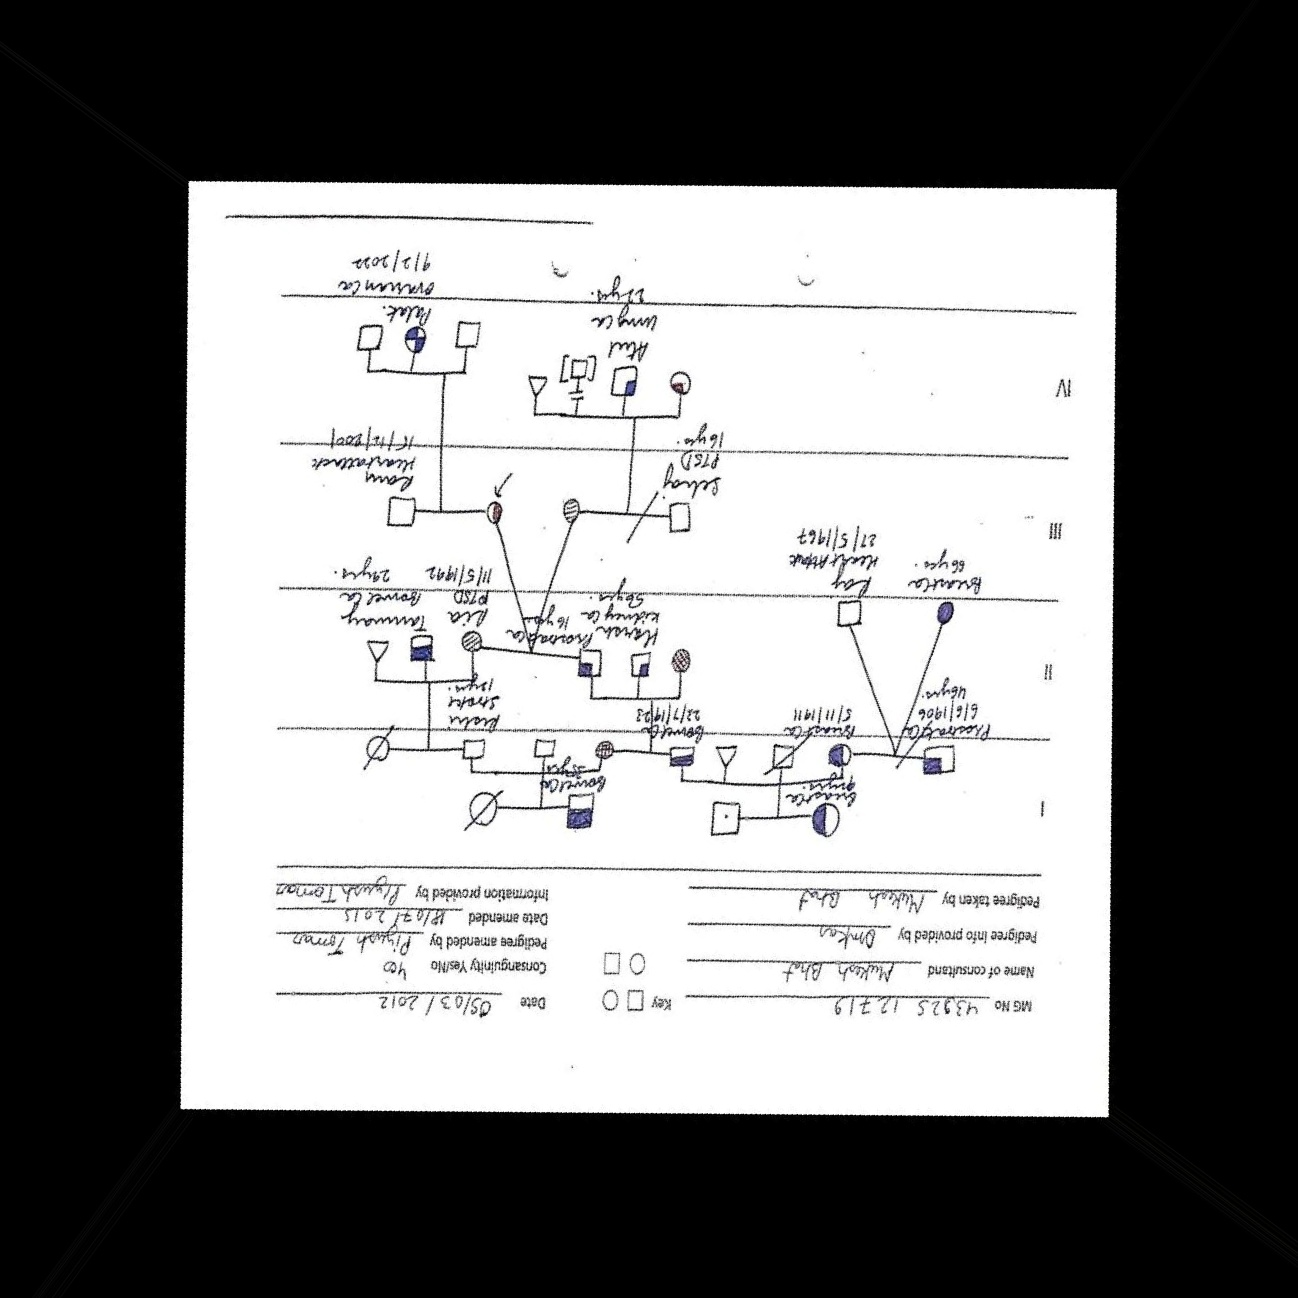
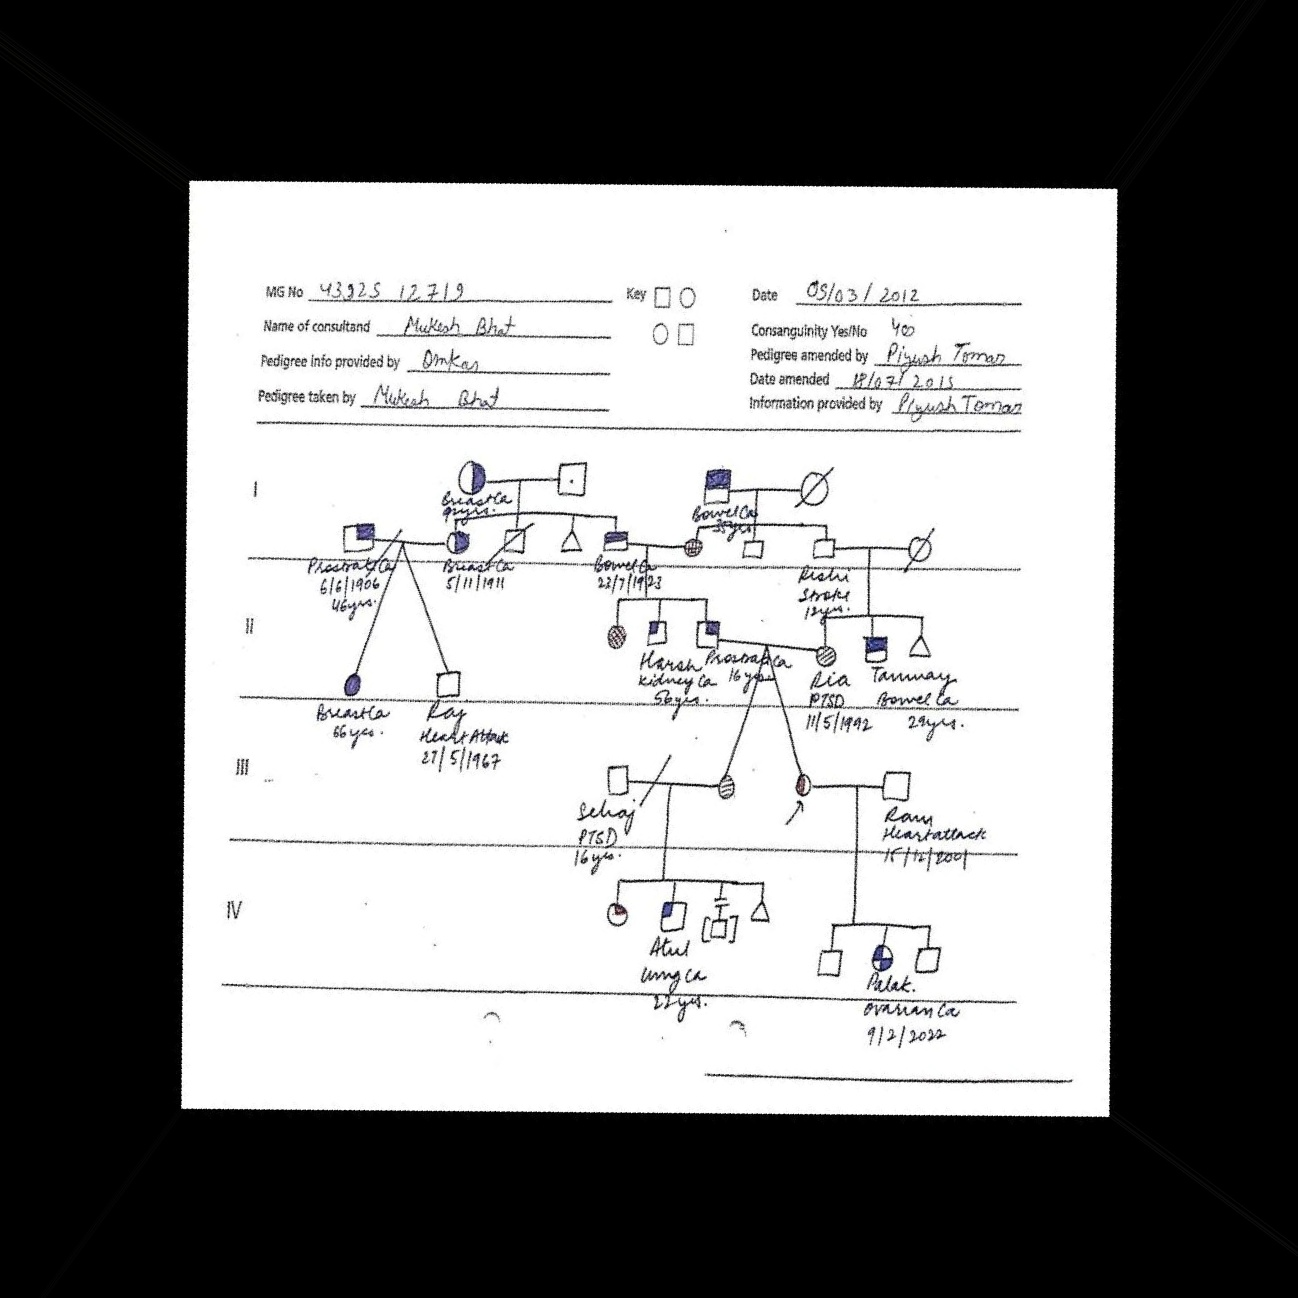
tried codes + ocr angle change for testing

diff --git a/app.py b/app.py
@@ -1,11 +1,9 @@
 import os
 import cv2
 import numpy as np
-from skimage import transform
 from flask import Flask, render_template, request, redirect, url_for, send_from_directory, jsonify
-
-import pytesseract
 from PIL import Image
+import pytesseract
 
 app = Flask(__name__)
 UPLOAD_FOLDER = 'uploads'
@@ -40,13 +38,25 @@ def upload_file():
             return render_template('result.html', result={
                 'original': filepath,
                 'oriented': rotated_image_path,
-                'angle_info': angle_info  # Pass angle information to the template
+                'angle_info': angle_info
             })
         except Exception as e:
             return render_template('error.html', error=str(e))
 
     return redirect(request.url)
 
+# def estimate_skew_by_contours(image):
+#     gray = cv2.cvtColor(image, cv2.COLOR_BGR2GRAY)
+#     blur = cv2.GaussianBlur(gray, (9, 9), 0)
+#     _, thresh = cv2.threshold(blur, 0, 255, cv2.THRESH_BINARY_INV + cv2.THRESH_OTSU)
+
+#     coords = np.column_stack(np.where(thresh > 0))
+#     if coords.shape[0] < 50:
+#         return 0
+
+#     mean, eigenvectors = cv2.PCACompute(coords.astype(np.float32), mean=None)
+#     angle = np.arctan2(eigenvectors[0, 1], eigenvectors[0, 0]) * 180 / np.pi
+#     return angle
 
 def process_image(image_path):
     try:
@@ -96,23 +106,23 @@ def process_image(image_path):
                     
                     (h, w) = img.shape[:2]
                     center = (w // 2, h // 2)
-
+ 
                     # Correction logic: Keep angles between -45 and 45
                     corrected_angle = detected_angle
                     if detected_angle < -45:
                         corrected_angle += 180
                     elif detected_angle > 45:
                         corrected_angle -= 180
-
+ 
                     print(f"Corrected angle after normalization: {corrected_angle:.2f} degrees")
                     
                     M = cv2.getRotationMatrix2D(center, corrected_angle, 1.0)
-                    img = cv2.warpAffine(img, M, (w, h), flags=cv2.INTER_LINEAR, 
+                    img = cv2.warpAffine(img, M, (w, h), flags=cv2.INTER_LINEAR,
                                          borderMode=cv2.BORDER_REPLICATE)
         except Exception as e:
             print(f"Error in Hough transform: {e}")
             # Continue processing even if Hough transform fails
-
+ 
         # Step 4: OCR orientation detection as backup
         ocr_angle = None
         try:
@@ -122,17 +132,17 @@ def process_image(image_path):
             if ocr_angle not in [0, None]:
                 print(f"OCR detected orientation adjustment: {ocr_angle} degrees")
                 
-                if abs(ocr_angle) >= 5:
+                if abs(ocr_angle) >= 20:
                     (h, w) = img.shape[:2]
                     center = (w // 2, h // 2)
                     M = cv2.getRotationMatrix2D(center, -ocr_angle, 1.0)
-                    img = cv2.warpAffine(img, M, (w, h), flags=cv2.INTER_LINEAR, 
+                    img = cv2.warpAffine(img, M, (w, h), flags=cv2.INTER_LINEAR,
                                          borderMode=cv2.BORDER_REPLICATE)
         except pytesseract.TesseractNotFoundError:
             raise RuntimeError("Tesseract not found. Make sure it's installed and in your system PATH.")
         except Exception as e:
             print(f"OCR orientation detection failed (continuing without it): {e}")
-
+ 
         # Step 5: Save result and return information
         try:
             angle_info = {
@@ -150,10 +160,7 @@ def process_image(image_path):
  
     except Exception as err:
         raise RuntimeError(f"Image processing failed: {err}")
-
-
-
-
+ 
 
 @app.route('/uploads/<filename>')
 def uploaded_file(filename):
@@ -163,7 +170,6 @@ def uploaded_file(filename):
 def error():
     return render_template('error.html', error="An error occurred during processing.")
 
-# Add a route to get just the angle info for AJAX requests
 @app.route('/check_angle', methods=['POST'])
 def check_angle():
     if 'file' not in request.files:
